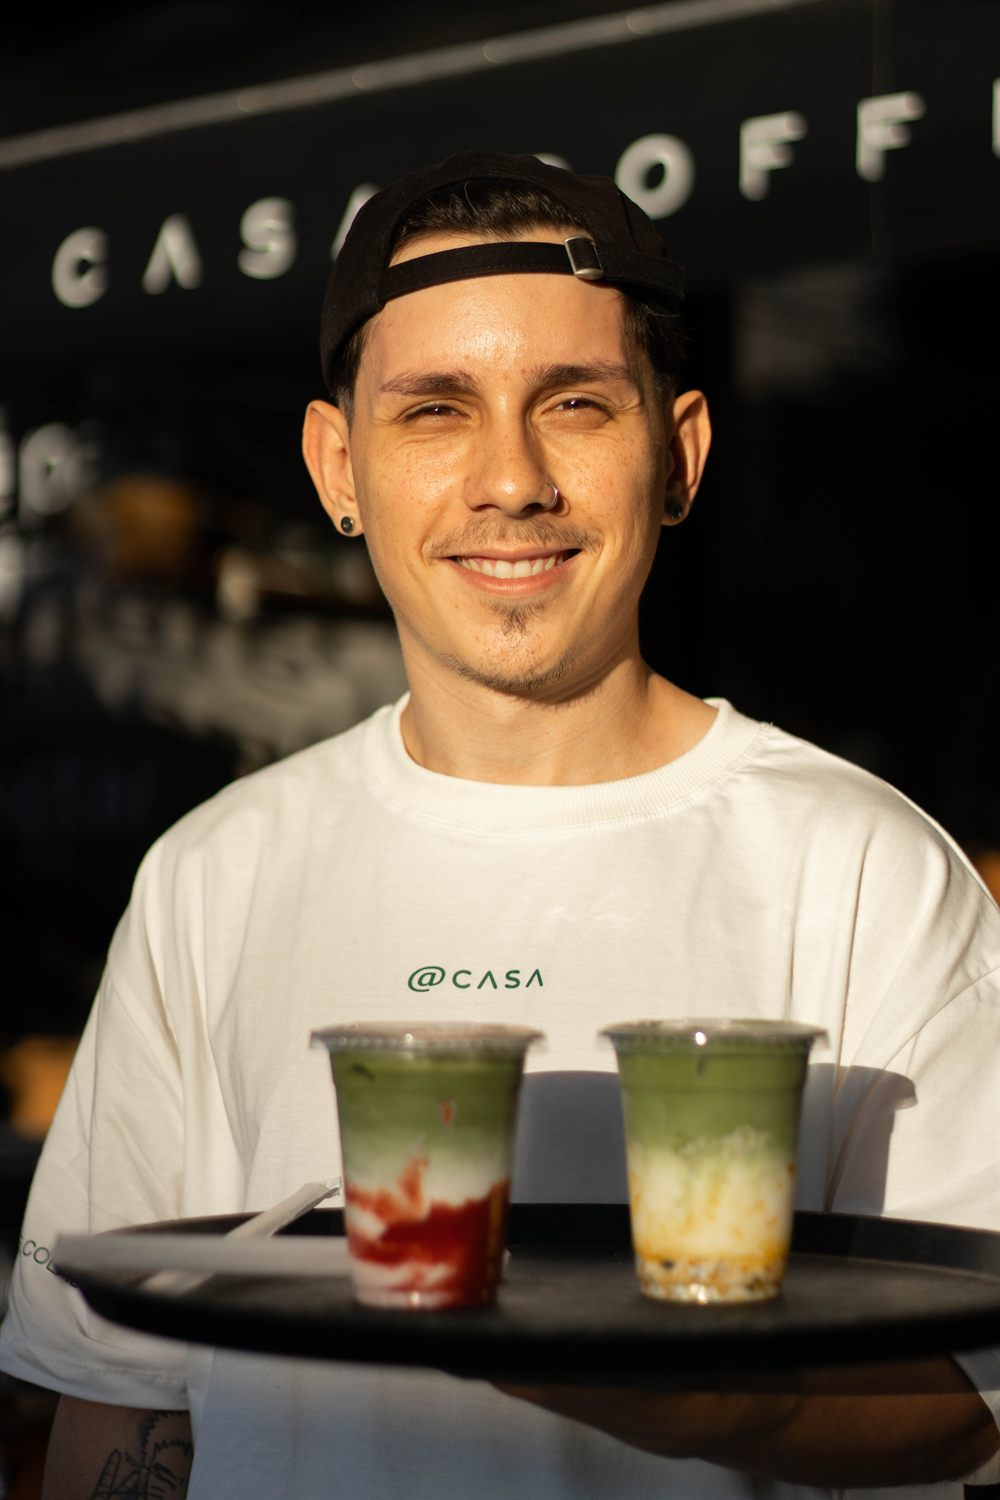
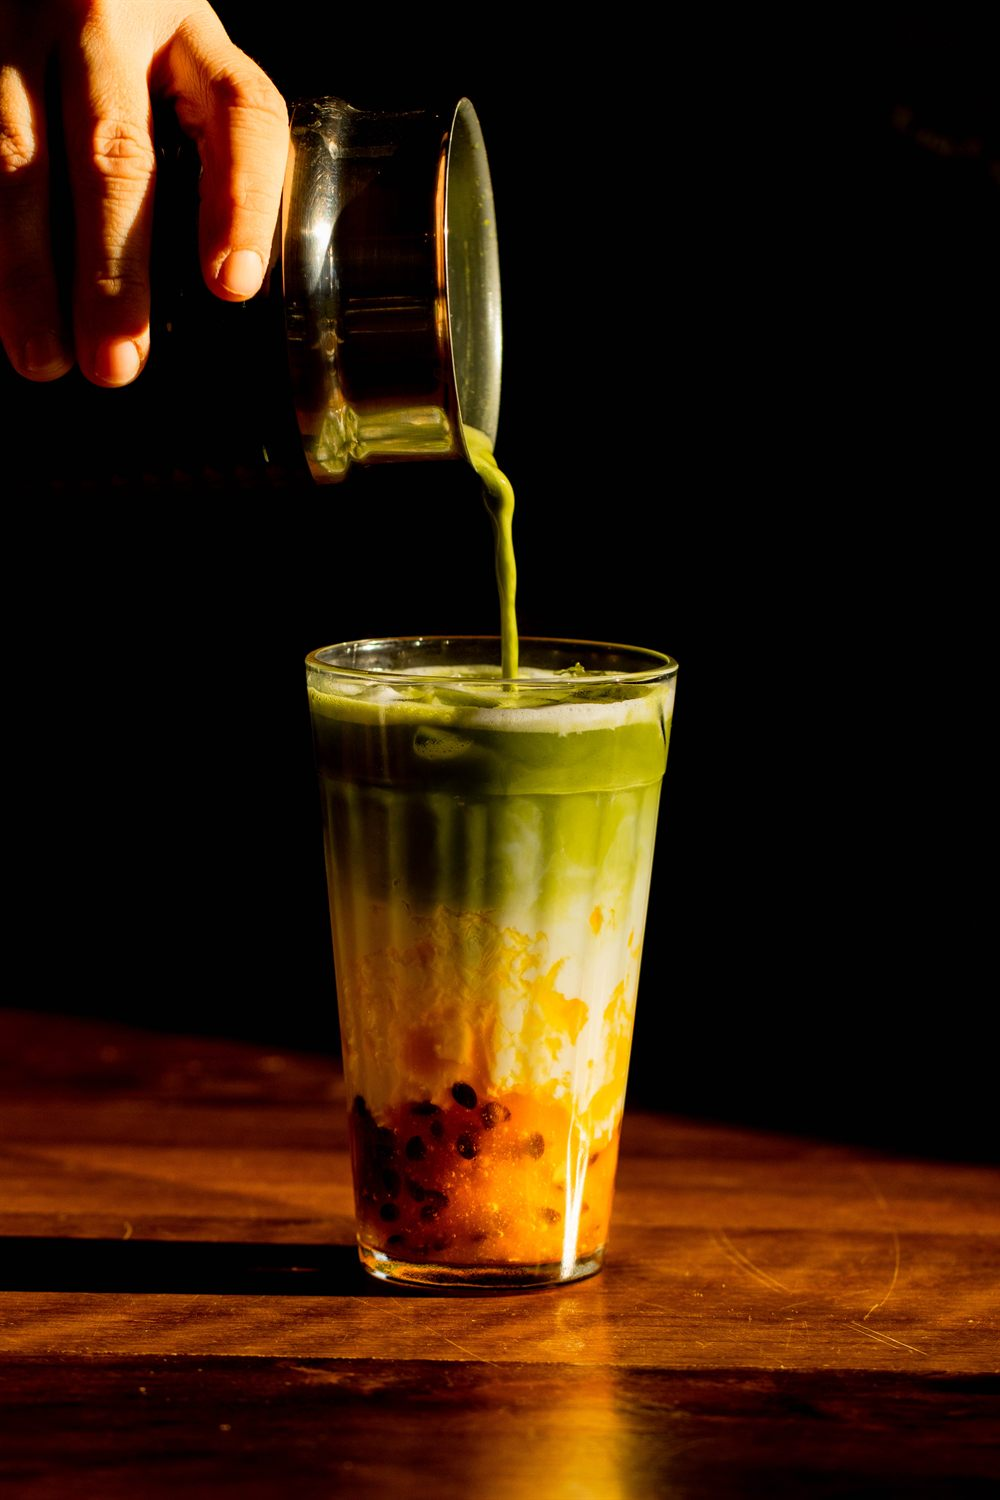
Troca a foto do card 02 Matcha Club
A nova é o matcha sendo despejado sobre o maracuja e a tapioca, com a
luz quente contra o fundo escuro. O alt acompanha a cena nova.

diff --git a/src/pages/home.html b/src/pages/home.html
@@ -66,7 +66,7 @@
               <div class="ph ph-matcha has-foto">
                 <img
                   src="/fotos/agenda-matcha-club.jpg"
-                  alt="Barista de boné preto e camiseta do Casa sorrindo com uma bandeja de dois matchás gelados"
+                  alt="Matchá sendo despejado de uma jarrinha de metal num copo alto com camadas de leite, maracujá e gelo, sobre a mesa de madeira do Casa"
                   loading="lazy"
                   decoding="async"
                 />
